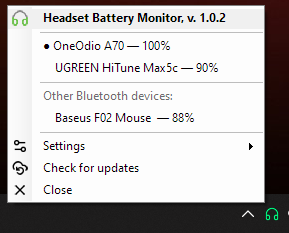
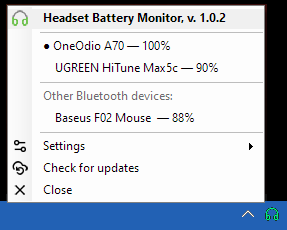
Update Readme

diff --git a/README.ru.md b/README.ru.md
@@ -1,7 +1,7 @@
 # Headset Battery
 
 <p align="center">
-  <img src="Assets/Logo_anim2.gif" width="128" style="max-width: 100%; height: auto;" alt="Headset Battery Monitor logo">
+  <img src="Assets/Logo_anim2.gif" style="max-width: 100%; height: auto; display: block;" alt="Headset Battery Monitor">
 </p>
 
 [English](README.md)
@@ -12,7 +12,9 @@
 
 ## Возможности
 
-![Headset Battery в области уведомлений Windows](Assets/live.png)
+<p align="center">
+  <img src="Assets/live.png" alt="Headset Battery в области уведомлений Windows">
+</p>
 
 - Определяет текущее устройство вывода Windows: динамики, Bluetooth-наушники или гарнитуру в режиме Hands-Free.
 - Показывает соответствующий глиф в трее. Для наушников и гарнитуры заряд отображается заполнением глифа: зелёным при нормальном уровне и красным при уровне 30% или ниже.

diff --git a/README.md b/README.md
@@ -1,7 +1,7 @@
 # Headset Battery
 
 <p align="center">
-  <img src="Assets/Logo_anim2.gif" width="128" style="max-width: 100%; height: auto;" alt="Headset Battery Monitor logo">
+  <img src="Assets/Logo_anim2.gif" style="max-width: 100%; height: auto; display: block;" alt="Headset Battery Monitor logo">
 </p>
 
 [Русский](README.ru.md)
@@ -12,7 +12,9 @@ No installation is required: unpack the release archive and run `HeadsetBattery.
 
 ## Features
 
-![Headset Battery in the Windows notification area](Assets/live.png)
+<p align="center">
+  <img src="Assets/live.png" alt="Headset Battery in the Windows notification area">
+</p>
 
 - Detects the active Windows audio output: speakers, Bluetooth headphones, or a headset in Hands-Free mode.
 - Shows the matching tray glyph. For headphones and headsets, the glyph fill is green at a normal level and red at 30% or below.
